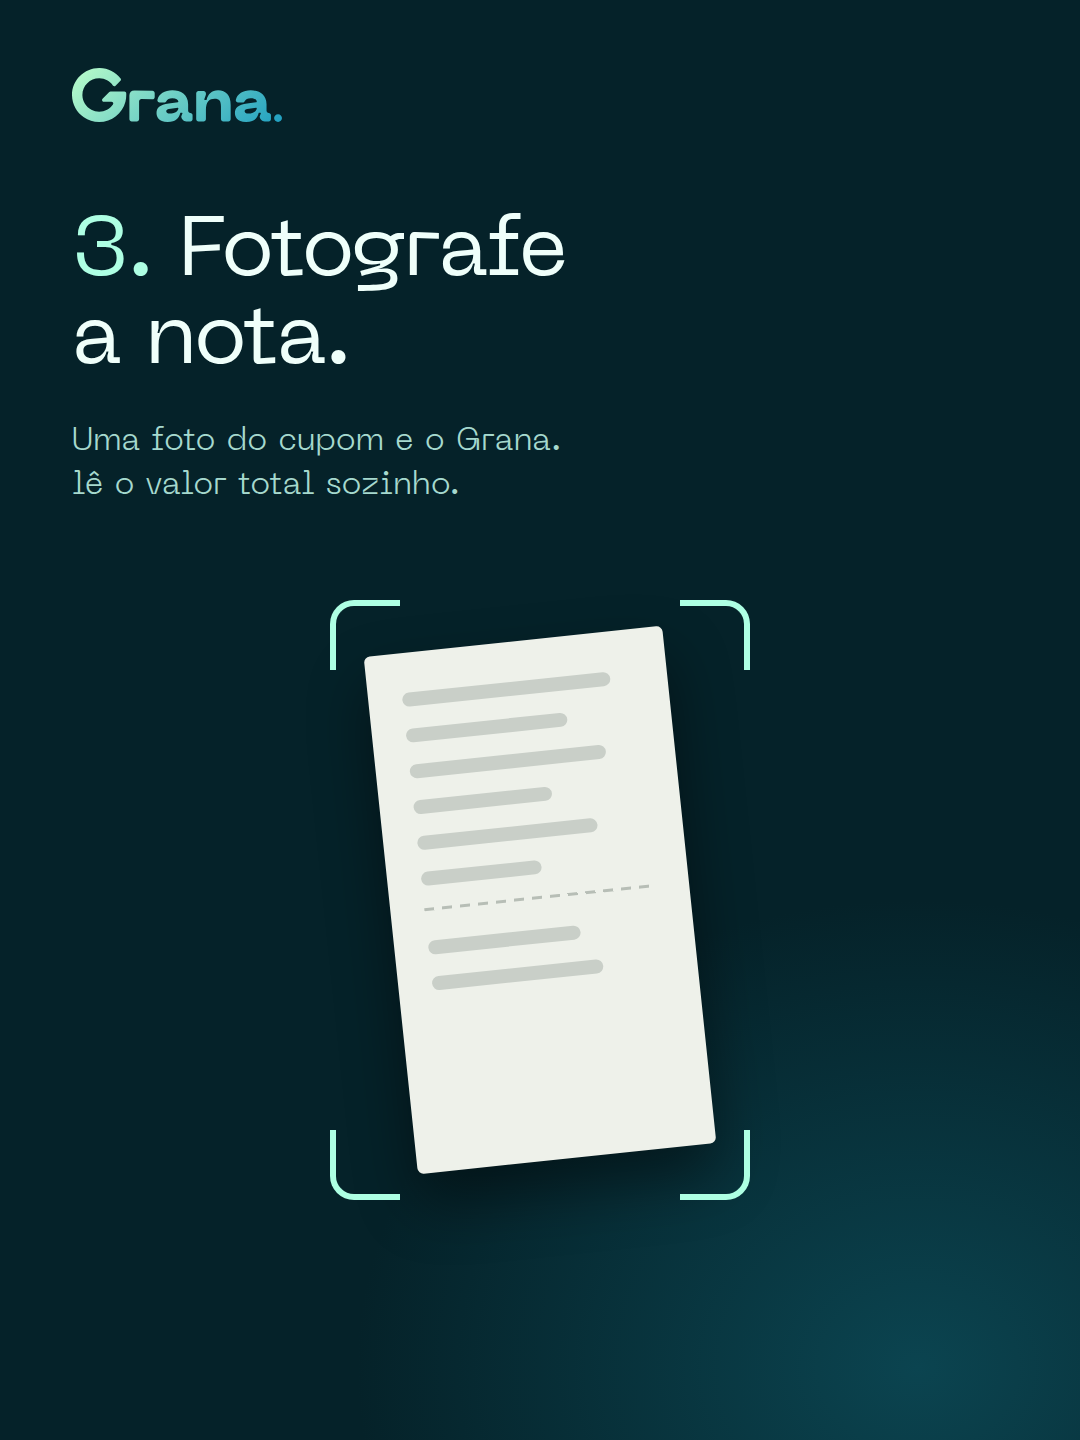
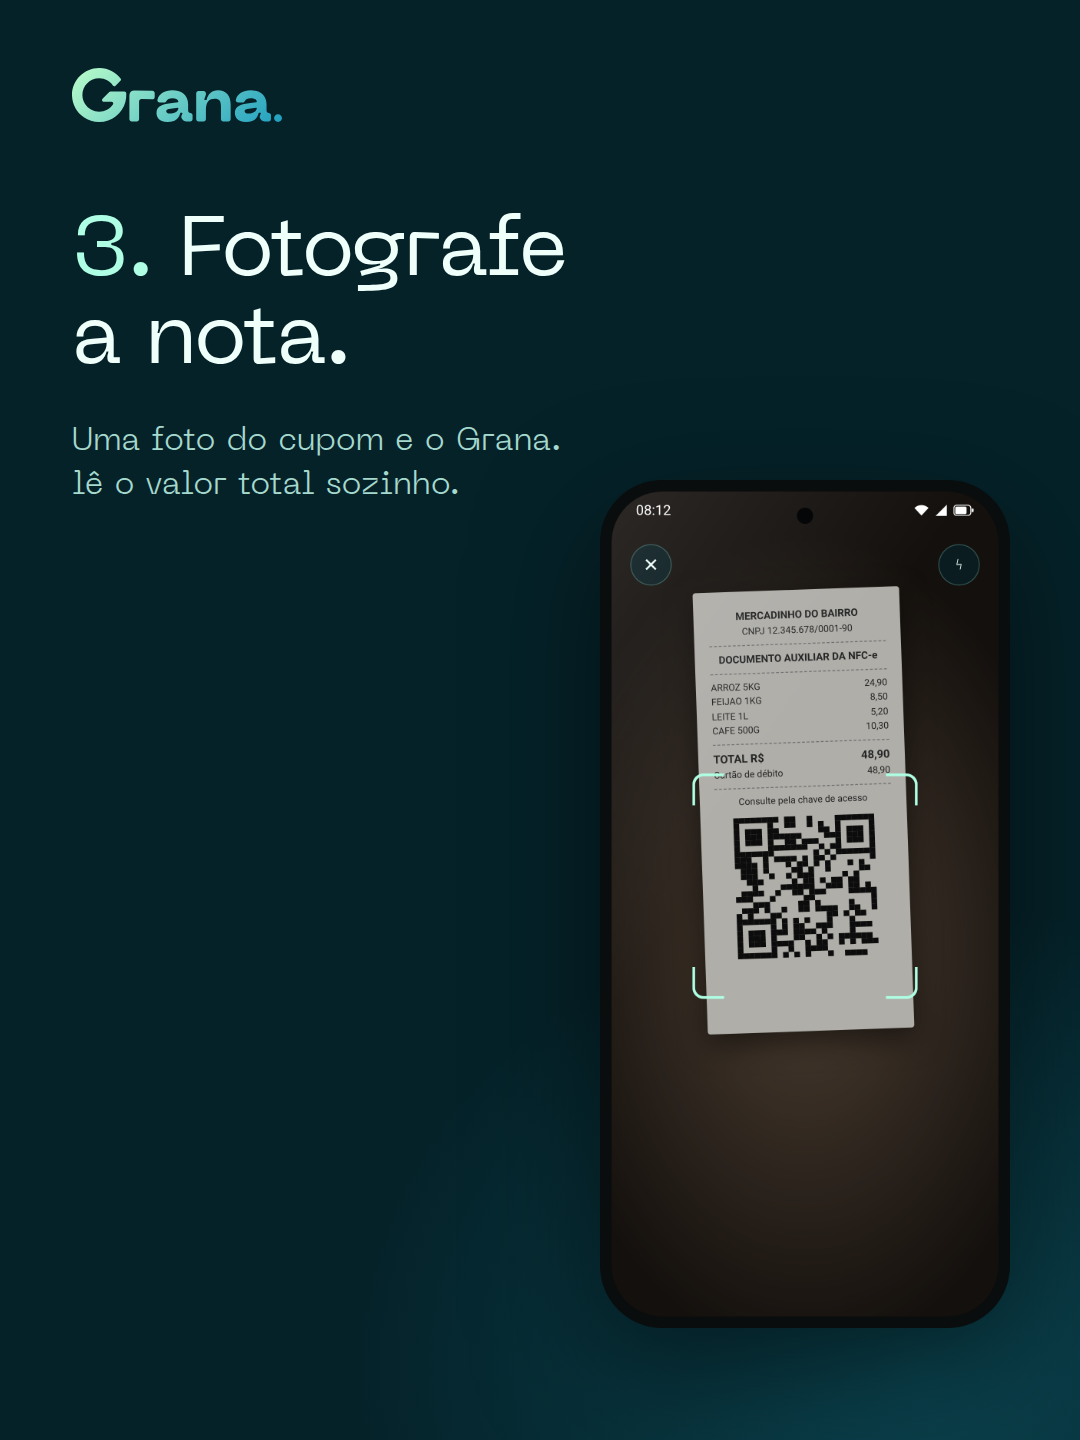
docs(marketing): S2 paginas 2 a 4 com o celular do motion alinhado; pagina 4 com a camera no cupom
Claude-Session: https://claude.ai/code/session_01Fv8uFkxWiJMthXkKAtJfu8

Changed region(s): [[0.3056, 0.3125, 0.9472, 0.9375], [0.3056, 0.7812, 0.3667, 0.8438]]

diff --git a/docs/marketing/funil-criativos-flat-2026-09/S2-tres-jeitos/S2.html b/docs/marketing/funil-criativos-flat-2026-09/S2-tres-jeitos/S2.html
@@ -49,22 +49,21 @@ em{font-style:normal;color:#aeffe3}
  <div class="h1"><em>1.</em> Fale o que aconteceu.</div>
  <div class="h2" style="top:420px">Pagou? Toque no widget e fale o gasto. O Grana. lança sem abrir o app.</div>
  <div class="fala" style="left:72px;top:720px;width:440px;font-size:42px">“Pão na padaria, <b>três e cinquenta e sete</b>, no débito.”</div>
- <img src="telas/cel-widget-motion.png" style="position:absolute;left:560px;top:520px;width:480px;transform:rotate(4deg);filter:drop-shadow(0 40px 60px rgba(0,0,0,.5));z-index:2">
+ <img src="telas/cel-widget-motion.png" style="position:absolute;left:600px;top:480px;width:410px;filter:drop-shadow(0 40px 60px rgba(0,0,0,.5));z-index:2">
 </div>
 <!-- 3 cole -->
 <div class="s" id="s3">
  <img class="logo" src="../../../../design-system/marca/logotipo-gradiente.svg">
  <div class="h1"><em>2.</em> Cole o texto do Pix.</div>
  <div class="h2" style="top:420px">Copiou o comprovante? Cola no Grana. e ele reconhece valor, categoria e tipo.</div>
- <img src="telas/cel-colado.png" style="position:absolute;left:575px;top:520px;width:440px;transform:rotate(4deg);filter:drop-shadow(0 40px 60px rgba(0,0,0,.5));z-index:2">
+ <img src="telas/cel-colado.png" style="position:absolute;left:600px;top:480px;width:410px;transform:none;filter:drop-shadow(0 40px 60px rgba(0,0,0,.5));z-index:2">
 </div>
 <!-- 4 fotografe -->
 <div class="s" id="s4">
  <img class="logo" src="../../../../design-system/marca/logotipo-gradiente.svg">
  <div class="h1"><em>3.</em> Fotografe a nota.</div>
  <div class="h2" style="top:420px">Uma foto do cupom e o Grana. lê o valor total sozinho.</div>
- <div class="cupom"><i></i><i style="width:70%"></i><i style="width:85%"></i><i style="width:60%"></i><i style="width:78%"></i><i style="width:52%"></i><b></b><i style="width:66%"></i><i style="width:74%"></i></div>
- <div class="mira"><span class="k1"></span><span class="k2"></span><span class="k3"></span><span class="k4"></span></div>
+ <img src="telas/cel-foto-nota-motion.png" style="position:absolute;left:600px;top:480px;width:410px;filter:drop-shadow(0 40px 60px rgba(0,0,0,.5));z-index:2">
 </div>
 <!-- 5 organiza -->
 <div class="s" id="s5">

diff --git a/docs/marketing/funil-criativos-flat-2026-09/S2-tres-jeitos/README.md b/docs/marketing/funil-criativos-flat-2026-09/S2-tres-jeitos/README.md
@@ -26,3 +26,8 @@ Carrossel de feed com 7 slides em 1080×1440. É o S2 do calendário do `FUNIL.m
 **Segunda revisão do autor (27/09/2026):** nem como detalhe. Os ícones saíram das páginas 1, 2 e 4, e o indicador de passos (os três selos no alto) saiu de todas. Na capa, a lista virou "1. Fale / 2. Cole o Pix / 3. Fotografe a nota", só em texto, com o número em menta.
 
 **Página 3 (27/09/2026):** o autor achou o celular "muito mal feito". A montagem sobre a foto do `celular-vazio.png` saiu. Entrou a mesma moldura de celular dos vídeos aprovados, com a tela real do "Colar comprovante ou Pix" já com o acento corrigido (`telas/cel-colado.png`).
+
+**Páginas 2, 3 e 4 alinhadas (27/09/2026):**
+- as três usam o mesmo celular do motion aprovado, na mesma posição (x 600, y 480, 410 px de largura, sem inclinação), inteiro dentro do card;
+- a página 4 mostra a câmera enquadrando o cupom (`telas/cel-foto-nota-motion.png`, quadro em 10,2 s do motion, **sem a frase "Aponte para o QR Code" e sem a linha de varredura**, para servir de "fotografar a nota");
+- **quando a foto da nota estiver publicada,** trocar pela captura real do fluxo novo.
